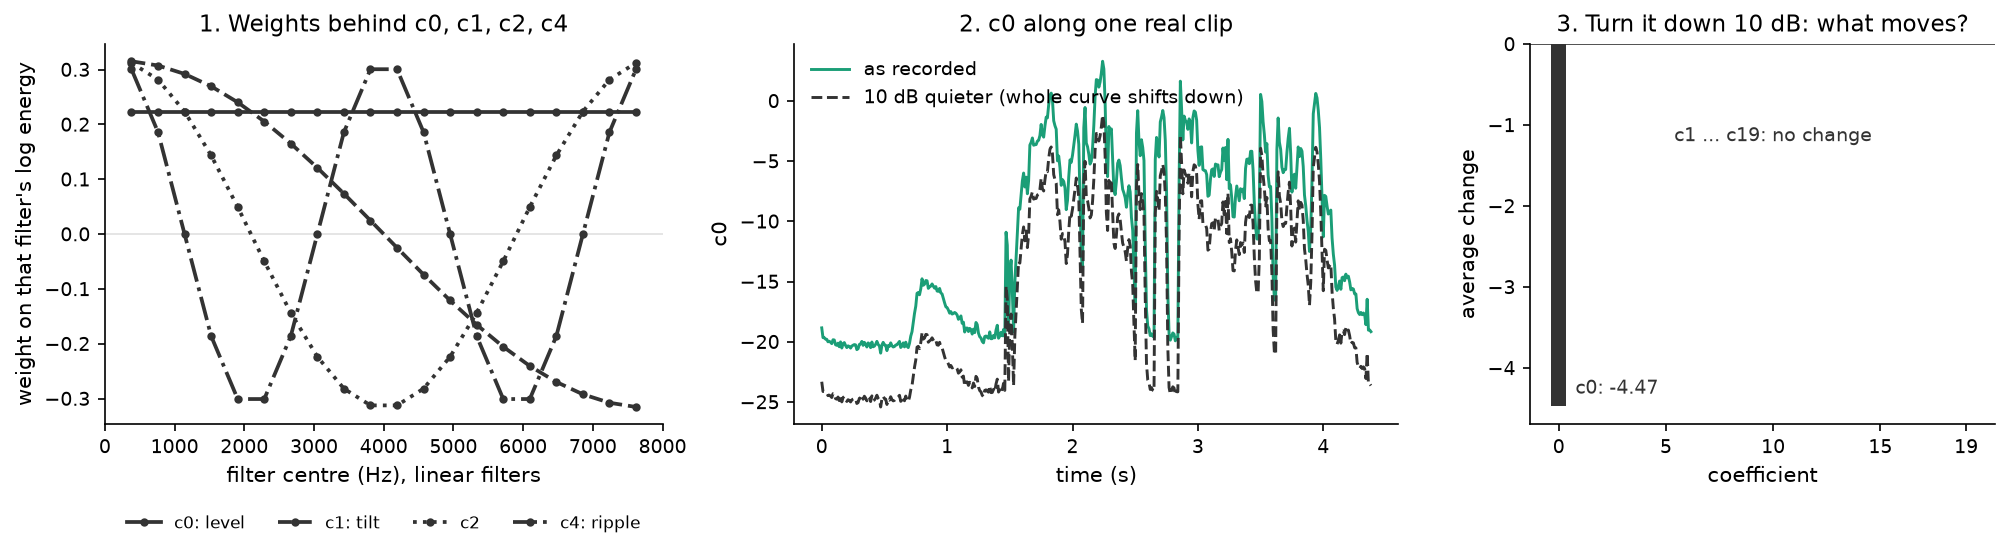
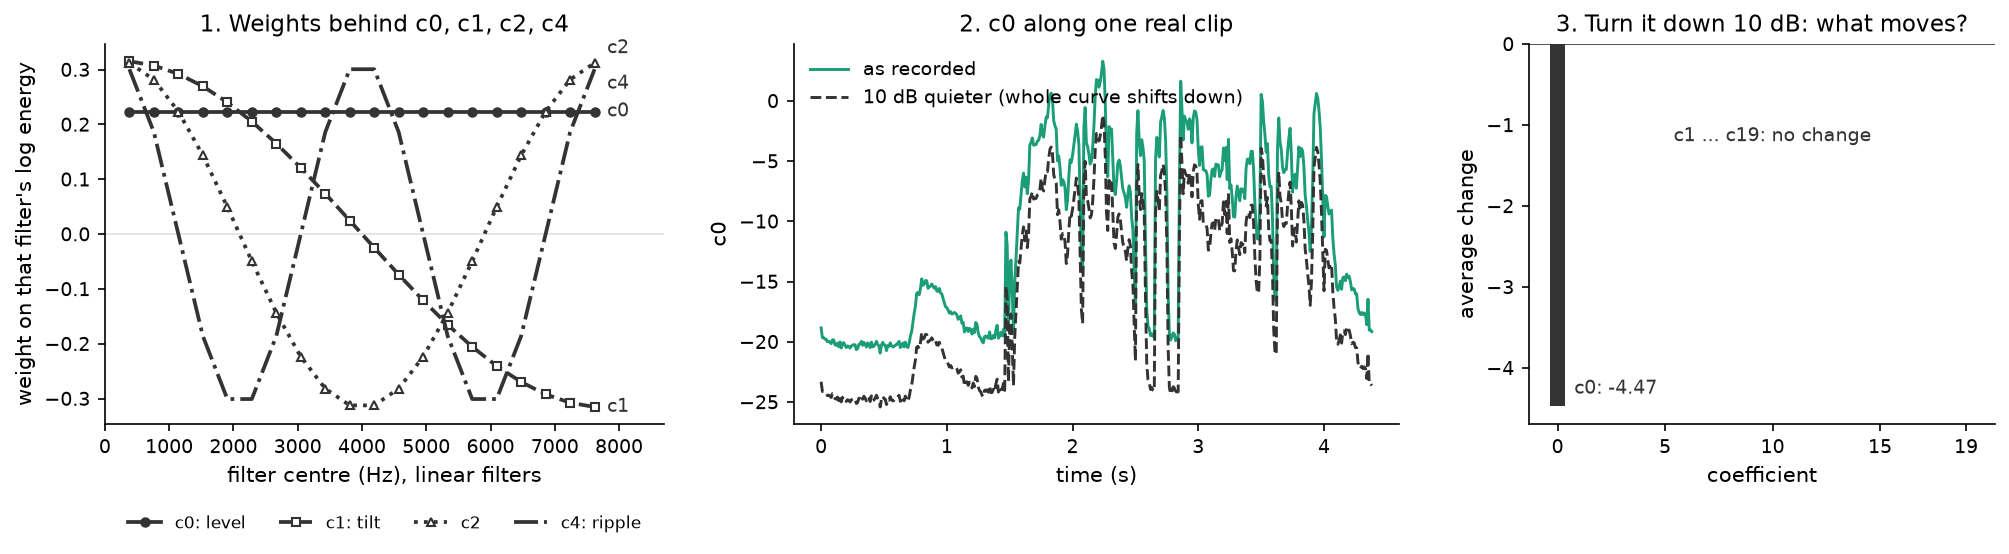
Story ch 1, 4-7: final polish (abbreviations at first use, clearer ch 5 coefficient figure)

diff --git a/docs/story/07_a2_borrowed_ears.md b/docs/story/07_a2_borrowed_ears.md
@@ -51,7 +51,8 @@ A2 needs, for each clip, one 768-number summary. The obvious recipe:
 But the weights change during training, so this would need all 13 × 199 × 768 numbers per clip
 kept on disk: about 4 MB (megabytes) per clip at 2 bytes per number, roughly 0.1 TB (terabytes)
 for the 25,380 training clips alone (our arithmetic). For the larger model we planned to try
-(XLS-R, 25 × 199 × 1,024 numbers per clip, not yet run) over all 121,461 ASVspoof clips, the
+(XLS-R, 25 × 199 × 1,024 numbers per clip, not yet run) over all 121,461 ASVspoof clips (the Automatic Speaker Verification Spoofing and
+Countermeasures Challenge 2019 dataset, chapter 2), the
 handoff puts it at about 1.24 TB (handoff §7.2). Instead, A2 does it the other way round:
 
 1. average each layer over time, once, and store just 13 × 768 numbers per clip;

diff --git a/docs/story/01_what_is_a_voice.md b/docs/story/01_what_is_a_voice.md
@@ -66,7 +66,7 @@ to pull the filter out of a recording.
 A fake voice has to produce both parts convincingly. The dataset's own description of its
 attacks shows that the generators are built in exactly two stages (from paper [14, §3, p.6]).
 
-Take attack A01 as a concrete case. In the database paper's words, "an NN-based acoustic model
+Take attack A01 as a concrete case. In the database paper's words, "an NN-based [NN: neural network] acoustic model
 predicts a sequence of acoustic features, including the Mel-cepstral coefficients (MCCs) of 60
 dimensions, interpolated F0, and voicing flags. Finally, the WaveNet vocoder is used to convert
 the MCCs and F0 into a waveform" (from paper [14, §3, p.6]). MCCs are a short list of numbers

diff --git a/docs/story/06_a1_two_clouds.md b/docs/story/06_a1_two_clouds.md
@@ -4,7 +4,7 @@
 
 ## No single number does it
 
-Chapter 5 turned every 10 ms of audio into 60 numbers, the linear-frequency cepstral
+Chapter 5 turned every 10 milliseconds (ms) of audio into 60 numbers, the linear-frequency cepstral
 coefficients (LFCC) plus their changes over time. Do real and fake frames differ?
 
 Open [notebook 09](../../notebooks/09_a1_playground.ipynb), cell 13. For 150 real and 150 fake

diff --git a/docs/story/04_looking_at_the_sound.md b/docs/story/04_looking_at_the_sound.md
@@ -33,6 +33,7 @@ we need it to be honest.
 ### Cohen's *d*: the gap between the averages, in units of spread
 
 Picture two piles. The obvious measure is the distance between their averages. But "300 Hz
+(hertz)
 apart" means a lot if each pile is 50 Hz wide and little if each is 2,000 Hz wide. So divide the
 gap by the typical width:
 
